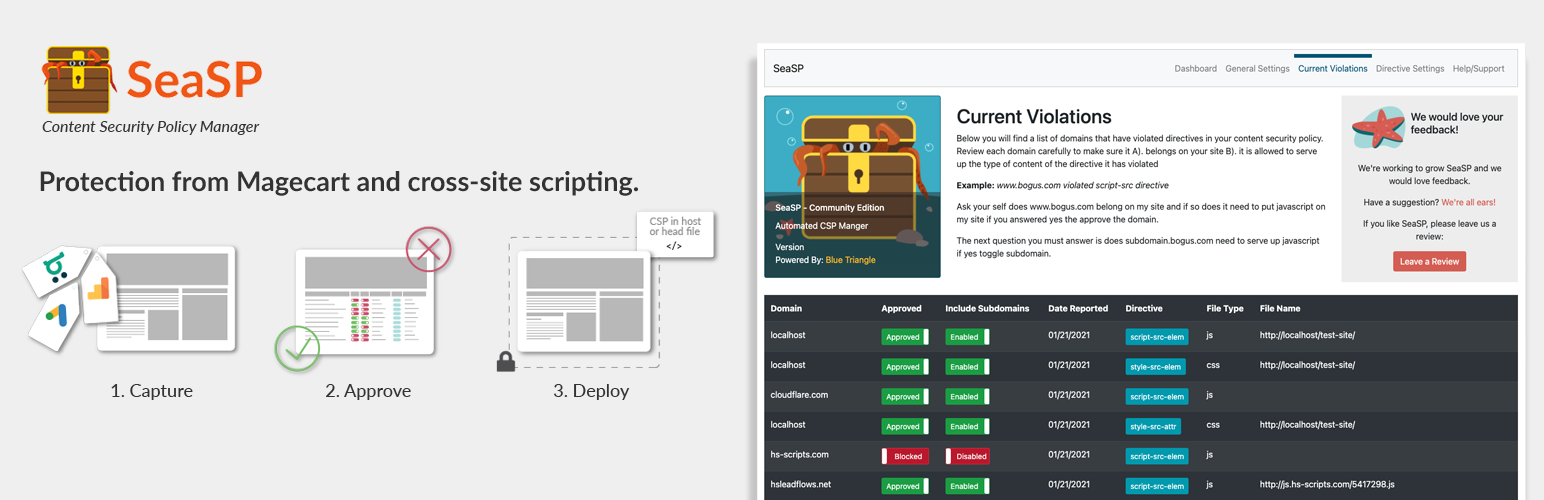
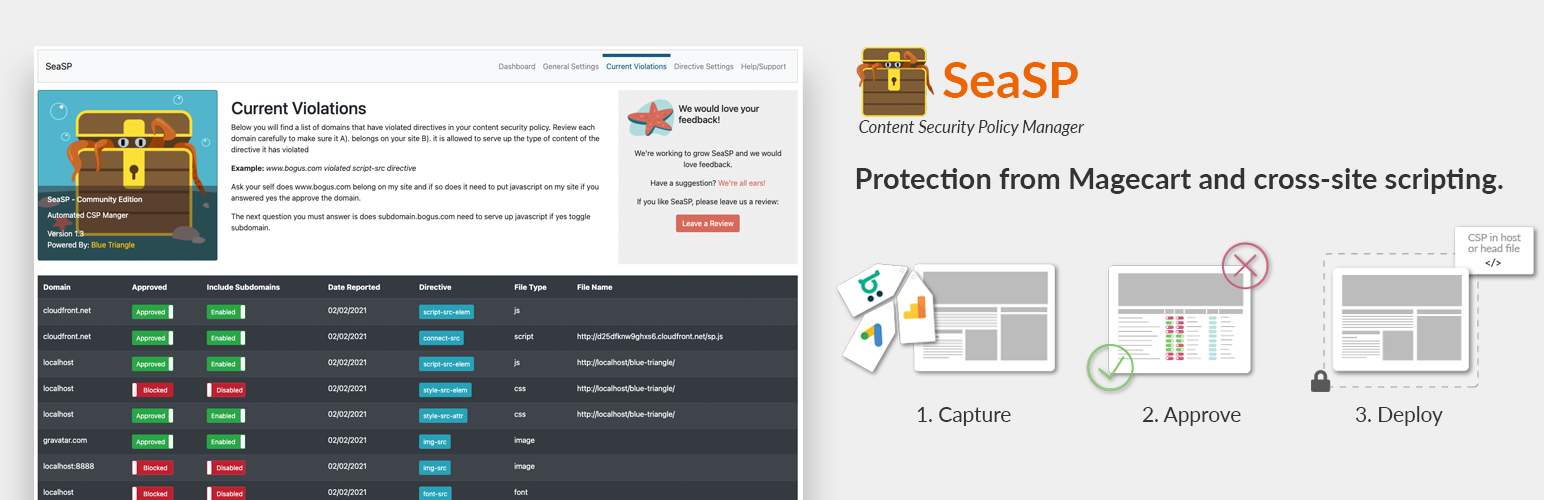
updated read me and images for clarity of plugin

diff --git a/Bluetriangle-free-csp.php b/Bluetriangle-free-csp.php
@@ -3,7 +3,7 @@
  * Plugin Name: Sea SP Community Edition 
  * Plugin URI: https://bluetrianglemarketing.github.io/SeaSP-Community-Edition/
  * Description: Sea SP is a Content Security Policy manager that automates manual processes of building a good CSP for your site.  
- * Version: 1.4.1
+ * Version: 1.4.2
  * Author: Julian Wilkison-Duran, Trish Brumett, Art By - Rachel Grant, and Dorothy Sysling
  * Author URI: http://www.bluetriangle.com
  */
@@ -465,7 +465,7 @@ function Blue_Triangle_Automated_CSP_Free_Build_Site_Data($siteID){
     }
     //verified insert into table 
     $insertStatement = 'insert into `seasp_site_settings`(`site_id`,`setting_name`,`setting_value`) values ';
-    $insertStatement .="(%s,'plugin_version','1.4')";
+    $insertStatement .="(%s,'plugin_version','1.4.2')";
     $wpdb->query($wpdb->prepare($insertStatement, [$siteID]));
     if($wpdb->last_error !== '') {
         $report = $wpdb->last_error .' failed to insert into `seasp_site_settings`' ;
@@ -555,7 +555,6 @@ function Blue_Triangle_Automated_CSP_Free_Inject_Tag() {
     window.addEventListener("load", function(e){ 
         (function($) {
             setTimeout(function() {
-                console.log(_BTT_CSP_FREE_ERROR);
                 jQuery.ajax({
                     type : "post",
                     dataType : "json",

diff --git a/README.md b/README.md
@@ -5,19 +5,24 @@ Tags: csp, content security policy, security, http headers
 Requires at least: 5.1
 Tested up to: 5.6
 Requires PHP: 7.0
-Stable tag: 1.4.1
+Stable tag: 1.4.2
 License: GPLv3 
 License URI: https://choosealicense.com/licenses/gpl-3.0/
  
+## == Important Notice ==
+
+(IMPORTANT IF INSTALLING FROM GITHUB REPO) Rename the folder from SeaSP-Community-Edition to sea-sp-community-edition 
+
 ## == Description ==
 
-Sea SP-Community Edition is an automated Content Security Policy manger that first installs a strict Sea SP-Community Edition is an automated Content Security Policy manger. A Content Security Policy (CSP) is a browser security standard that controls what domains, subdomains, and types of resources a browser can load on a given web page. It is implemented via an HTTP header, but a CSP can also be placed on a web page using a <meta> tag. CSPs are compatible with most modern desktop and mobile browsers, including Chrome, Firefox, Internet Explorer, Edge, Opera, and Safari. CSP’s are used to detect and prevent certain types of attacks including form jacking and cross-site scripting, browser hijacking and ad injection, as well as unauthorized piggyback tags.
+SeaSP-Community Edition WordPress plugin is an automated **Content Security Policy Manager**. SeaSP allows you to create, configure, and deploy a Content Security Policy for your site.
 
-The Wordpress SeaSP Community Edition was created to help quickly document what domains your site is using, so you can categorize and filter out any unwanted domains. First SeaSP installs a strict non-blocking CSP to collect violation data. The violation data is stored in the Wordpress database as a php option within the plugin options schema.
+The WordPress SeaSP-Community Edition plugin catalogs the domains your site is using. Categorize and filter out unwanted domains. Add a layer of WordPress security site from magecart and other cross-scripting hacks to keep your WordPress site safe.
 
-Using the SeaSP Community Edition plugin, the violations can approved by domains and categorized by directives (CSS, fonts, images, JS, etc.). Base domains and subdomains can also be approved. The SeaSP UI helps users by explaining what each directive does, and how they can be used to create a CSP. 
+SeaSP installs a strict non-blocking CSP to collect violation data and provide a violation report. Violation data flows into the WordPress database as a PHP option within the plugin options schema. Violations can be approved by domains and categorized by directives (CSS, fonts, images, JS, etc.). You can also approve base domains and subdomains. The SeaSP UI helps users by explaining what each directive does, and how to use them to create a CSP.
 
-Once the domain and directive settings are configured as needed, the CSP can be updated to blocking mode. Once the CSP is put into blocking mode, the site is protected from any unrecognized code. Helping you secure your site and protect your bounty. 
+After configuring the domain and directive settings switch the CSP to blocking mode. Once the CSP goes into blocking mode, the site's protected from any unrecognized code. SeaSP-Community Edition helps secure your site.
+
 
 ## == Installation ==
 
@@ -29,19 +34,31 @@ Once the domain and directive settings are configured as needed, the CSP can be 
 6. Watch the walk through video [here](https://youtu.be/XdJNh6LEKJw) for more directions. 
 
 ## == Frequently Asked Questions ==
-# = What data does SeaSP collect? =
+
+### What  is a Content Security Policy? =
  
-SeaSP collects content security policy violations from the console 
+A Content Security Policy (CSP) is a browser security standard that controls the domains, subdomains, and types of resources a browser can load on a given web page. CSPs go into a special Content Security Policy header, or it can go on a web page using a meta tag. CSPs are compatible with all modern desktop and mobile browsers, including Chrome, Firefox, Internet Explorer, Edge, and Safari. CSPs detect and prevent certain types of attacks including form jacking and cross-site scripting, browser hijacking and ad injection, as well as unauthorized piggyback tags. 
 
-# = Where is this data stored? =
+SeaSP is an extra layer of security that protects your WordPress site from spammers by blocking unauthorized scripts.
 
-The CSP violations themselves are not stored only the violating domains the directives they violated. Those are stored as a php object in the plugin options schema.
+### What's next after my WordPress installation?
 
-# = Is there a tutorial? =
+Once the plugins installed a strict non-blocking CSP is on your site. Visit each page of your site to collect CSP violations for individual pages. The Current Violations page of the plugin collects domains that violate CSP directives.
+
+Review domains and click the toggle to approve the domain and include it in the CSP. Check for misspellings of common domains like adobee.com instead of adobe.com. This is a common way hackers inject content into your site.
+
+To allow subdomains to serve content, click the include subdomains toggle. To learn more about the violated directives click the blue Directive button.
+
+After this process, you might still see CSP violations for inline scripts, inline styles, blobs, or data. To allow this type of content navigate to the Directive Settings page and toggle the appropriate options (connect src, media src, child src, object src, frame ancestors, unsafe inline, etc.) Each option has a tooltip explaining what the directive allows in your CSP.
+
+User our CSP reports to see what content is loading on your site. 
+
+### Is there a tutorial? =
+
 A walk though of this plugin can be found [here](https://youtu.be/XdJNh6LEKJw)
 
-# = How does the plugin collect CSP violations? =
-The plugin installs a small javascript in the head of your site that defines a variable named _BTT_CSP_FREE_ERROR the violations are then collected in this variable made into a json string and send to the back end of the plugin via ajax using a nonce. These errors are then parsed for the domains and the directives they have violated. This data is then stored as a php object in a plugin option. This data never leaves your site. 
+### How does the plugin collect CSP violations? =
+The plugin installs a small javascript in the head of your site that defines a variable named _BTT_CSP_FREE_ERROR the violations are then collected in this variable made into a json string and send to the back end of the plugin via ajax using a nonce. These errors are then parsed for the domains and the directives they have violated. This data is then stored as a php object in a plugin option. This data never leaves your site.  
 
 ## == Screenshots ==
 
@@ -87,6 +104,9 @@ The plugin installs a small javascript in the head of your site that defines a v
 # = 1.4.1 =
 * This update is a hotfix for a problem observed on a Safari Browser where directives did not fall back on default-src directive for https: setting
 * To remedy this when ever a directive setting is changed https is automatically selected for you 
+
+# = 1.4.2 =
+* This update is to clarify copy and images on the WordPress.org SeaSP Plugin page.
 
 ## == Upgrade Notice ==
 * When you install this version you will need to rebuild your CSP
